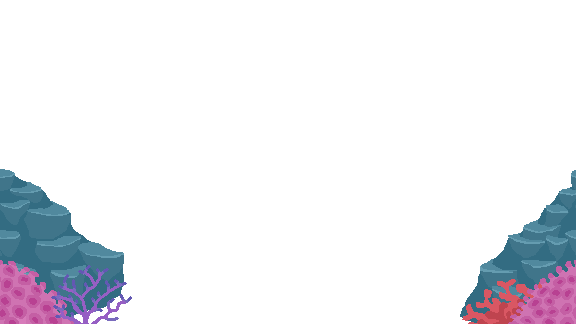
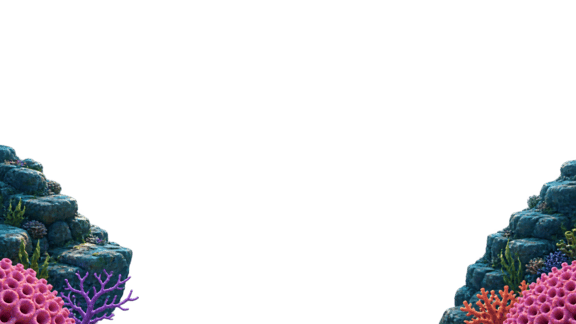
Vishal Jadhav] |redesigning graphics

Changed region(s): [[0.0, 0.4321, 0.25, 1.0], [0.75, 0.4938, 1.0, 1.0]]

diff --git a/stages/stage01-ocean.html b/stages/stage01-ocean.html
@@ -1462,35 +1462,35 @@
 
         var bgFish = [];
         (function initBgFish() {
-          var glyphs = ["🐟", "🐠", "🐡", "🐙", "🦑", "🦐"];
-          for (var f = 0; f < 9; f++) {
-            bgFish.push({
-              x: rand(0, W),
-              y: rand(40, H - 120),
-              dir: Math.random() < 0.5 ? 1 : -1,
-              speed: rand(14, 32),
-              glyph: glyphs[Math.floor(Math.random() * glyphs.length)],
-              bob: rand(0, Math.PI * 2),
-              size: rand(16, 28),
-            });
-          }
+          // var glyphs = ["🐟", "🐠", "🐡", "🐙", "🦑", "🦐"];
+          // for (var f = 0; f < 9; f++) {
+          //   bgFish.push({
+          //     x: rand(0, W),
+          //     y: rand(40, H - 120),
+          //     dir: Math.random() < 0.5 ? 1 : -1,
+          //     speed: rand(14, 32),
+          //     glyph: glyphs[Math.floor(Math.random() * glyphs.length)],
+          //     bob: rand(0, Math.PI * 2),
+          //     size: rand(16, 28),
+          //   });
+          // }
         })();
 
         // NEW: seabed decorations (crabs crawling, seashells, starfish)
         var seabedDecorations = [];
         (function initSeabedDecorations() {
-          var count = 5;
-          var glyphs = ["🦀", "🐚", "🐌", "🐚"];
-          for (var i = 0; i < count; i++) {
-            seabedDecorations.push({
-              x: rand(50, W - 50),
-              y: H - 15,
-              glyph: glyphs[Math.floor(Math.random() * glyphs.length)],
-              speed: rand(10, 22),
-              dir: Math.random() < 0.5 ? 1 : -1,
-              bob: rand(0, Math.PI * 2),
-            });
-          }
+          // var count = 5;
+          // var glyphs = ["🦀", "🐚", "🐌", "🐚"];
+          // for (var i = 0; i < count; i++) {
+          //   seabedDecorations.push({
+          //     x: rand(50, W - 50),
+          //     y: H - 15,
+          //     glyph: glyphs[Math.floor(Math.random() * glyphs.length)],
+          //     speed: rand(10, 22),
+          //     dir: Math.random() < 0.5 ? 1 : -1,
+          //     bob: rand(0, Math.PI * 2),
+          //   });
+          // }
         })();
 
         var seaweedElements = [];
